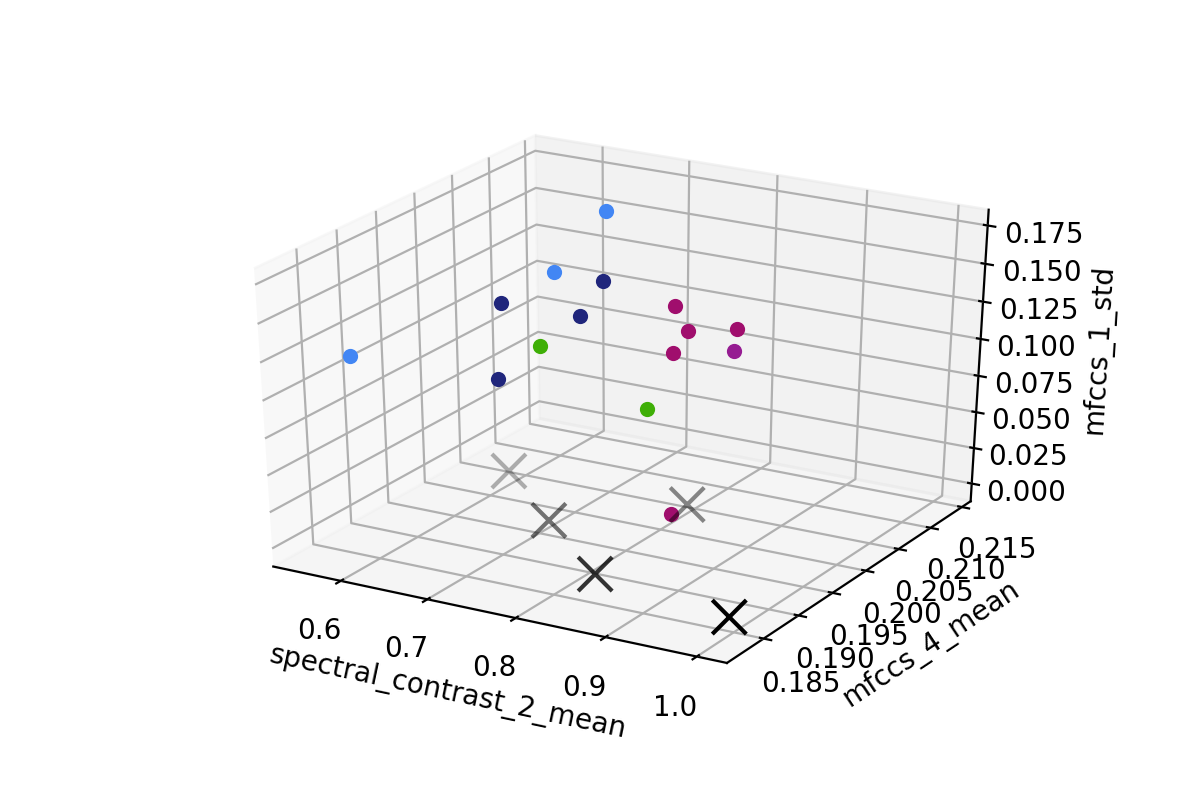
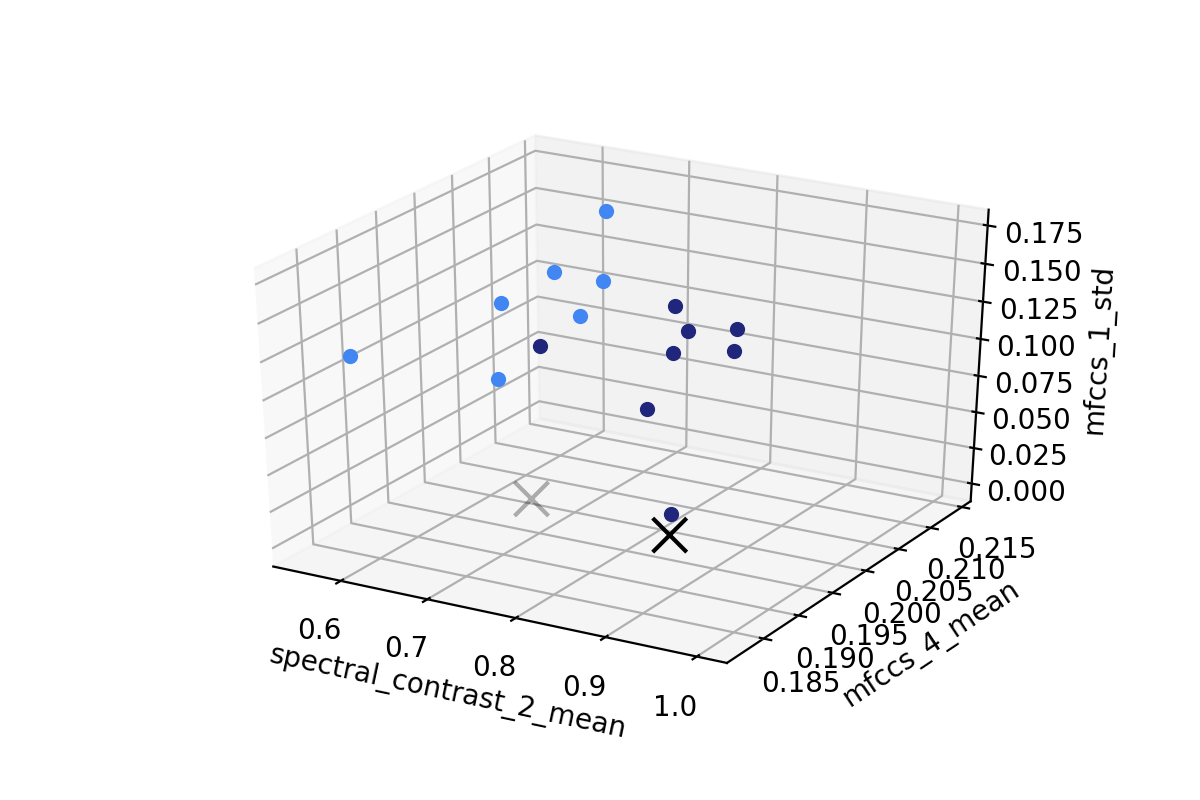
Pickling the test model
Former-commit-id: 52dfbce0705d78560081cbedc278438d89e28b7b

diff --git a/Music Feature Extraction/feature_extraction.py b/Music Feature Extraction/feature_extraction.py
@@ -9,21 +9,7 @@ from tqdm import tqdm
 WAV_DIR = 'audio_files/'
 wav_files = os.listdir(WAV_DIR)
 
-# col_names = ['file_name', 'signal_mean', 'signal_std', 'signal_skew', 'signal_kurtosis', 
-#              'zcr_mean', 'zcr_std', 'rmse_mean', 'rmse_std', 'tempo',
-#              'spectral_centroid_mean', 'spectral_centroid_std',
-#              'spectral_bandwidth_2_mean', 'spectral_bandwidth_2_std',
-#              'spectral_bandwidth_3_mean', 'spectral_bandwidth_3_std',
-#              'spectral_bandwidth_4_mean', 'spectral_bandwidth_4_std'] + \
-#             ['spectral_contrast_' + str(i+1) + '_mean' for i in range(7)] + \
-#             ['spectral_contrast_' + str(i+1) + '_std' for i in range(7)] + \
-#             ['spectral_rolloff_mean', 'spectral_rolloff_std'] + \
-#             ['mfccs_' + str(i+1) + '_mean' for i in range(20)] + \
-#             ['mfccs_' + str(i+1) + '_std' for i in range(20)] + \
-#             ['chroma_stft_' + str(i+1) + '_mean' for i in range(12)] + \
-#             ['chroma_stft_' + str(i+1) + '_std' for i in range(12)] 
-
-col_names = ['file_name', 'tempo', 'spectral_contrast_2_mean', 'mfccs_4_mean', 'mfccs_1_std']
+col_names = ['file_name', 'spectral_contrast_2_mean', 'mfccs_4_mean', 'mfccs_1_std']
             
             
 df = pd.DataFrame(columns=col_names)
@@ -34,9 +20,6 @@ for f in tqdm(wav_files):
         y, sr = librosa.load(WAV_DIR+f, sr = 22050)
         
         feature_list = [f]
-        
-        tempo = librosa.beat.tempo(y, sr=sr)
-        feature_list.extend(tempo)
 
         spectral_contrast = librosa.feature.spectral_contrast(y, sr=sr, n_bands = 6, fmin = 200.0)
         feature_list.append(np.mean(spectral_contrast[2]))
